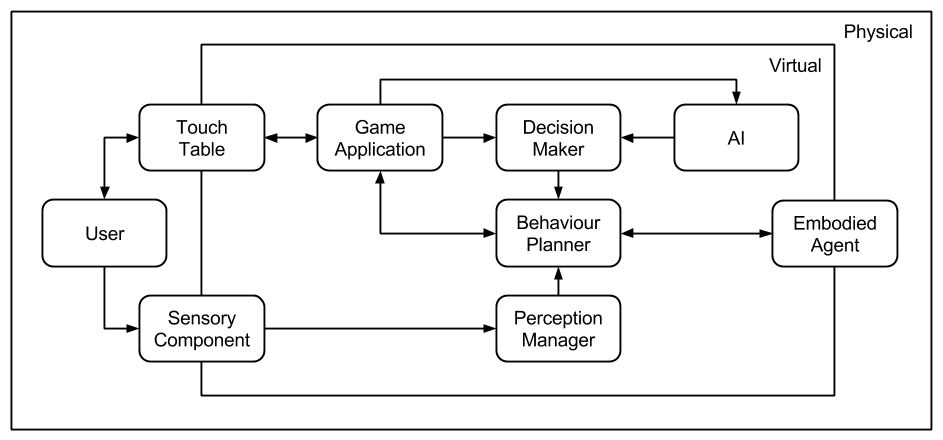
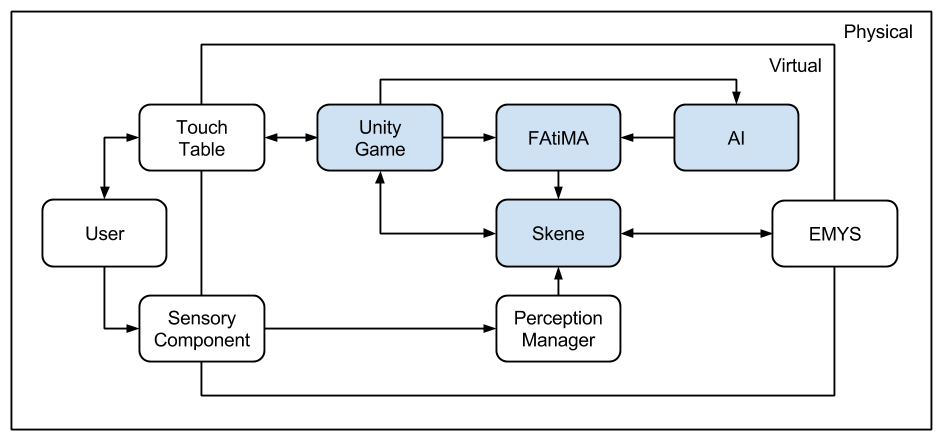
First version of section 4.1.

diff --git a/partials/41_architecture_overview.tex b/partials/41_architecture_overview.tex
@@ -1,29 +1,45 @@
 \section{Architecture Overview}
 \label{section:architecture_overview}
 
-The model presented in Figure~\ref{fig:model} organises all the components involved in this system, considering a scenario where an embodied agent plays a physical card game against human players over a touch table.
+The model presented in Figure~\ref{fig:model} organises all the components involved in this system and their communications.
+It considers a scenario where an embodied agent plays a physical card game against human players over a touch table.
+
+\begin{figure}[ht]
+  \centering
+    \includegraphics[width=1\textwidth]{./img/architecture}
+  \caption{System architecture using components}
+\label{fig:model}
+\end{figure}
+
+First of all, this model distinguishes physical components from virtual ones.
+However, some entities are presented as both physical and virtual components and will not be detailed since their usage in this system did not demand any extensions for the scope of our domain (\emph{Touch Table}, \emph{Sensory Component} and \emph{Embodied Agent}).
+
+The basic workflow that illustrates the main functionalities of each component is as follows.
+The human players, \emph{Users}, play with physical cards on top of a \emph{Touch Table}, and their game actions are managed by the \emph{Game Application} and communicated to both the \emph{\ac{ai}} and the \emph{Decision Maker}.
+%\todo{check the sensory components!}
+Besides their game actions, \emph{Users} also produce another sort of events that are captured by the \emph{Sensory Component} and handled by the \emph{Perception Manager}, for instance, face movements or the source direction of spoken interactions.
+The \emph{\ac{ai}} includes all the reasoning about the game and decides the next move of the artificial player.
+However, the \emph{Embodied Agent} will not only play a certain card, but will also include social behaviours.
+As a result, the \emph{Decision Maker} balances the \emph{\ac{ai}} decisions and game information to produce an appropriate sequence of behaviours and inform them to \emph{Behaviour Planner}.
+Lastly, the \emph{Behaviour Planner}, after receiving high-level intention-directed instructions, builds a suitable plan to execute the chosen instructions, considering the state of the \emph{Embodied Agent}, information from \emph{Perception Manager}, and additional game information from the \emph{Game Application}.
 
 \begin{figure}[ht]
   \centering
     \includegraphics[width=1\textwidth]{./img/model}
-  \caption{Structure of the social robot that plays \emph{Sueca}}
+  \caption{System architecture using modules}
 \label{fig:model}
 \end{figure}
 
-This model distinguishes physical components from virtual ones.
-Some entities are not detailed on the scope of this project and are presented as both physical and virtual components.
-The human players, Users, play with physical cards on top of a Touch Table, and their game actions are managed by Game Application and communicated to both the \ac{ai} module and the Decision Maker.
-The Perception Manager receives information from all the Sensory Components.
-The \ac{ai} module includes all the reasoning about the game and decides the robot's next move.
-However, the embodied agent's actions also involve social behaviours, and Decision Maker is the responsible module for this management.
-The Decision Maker balances the \ac{ai} move and game information, depending on the situation, in order to produce an appropriate sequence of behaviours and inform them to Behaviour Planner.
-For instance, being the last player of a trick and taking the two highest cards of a suit, by playing a trump card, is an exciting move and should produce an equally exciting reaction on the robot.
-Lastly, the Behaviour Planner, after receiving high-level intention-directed instructions, builds a suitable plan to execute the chosen instructions, considering the state of the embodied agent, information from Perception Manager, and additional game information from the Game Application.
+%\todo{confirmar com o Tiago se sai uma seta do skene para o unity!!!}
+The previsously described architecture is instantiated as shown in Figure~\ref{fig:model} and the blue modules are thalamus communicating enteties.
+This concept arises from the Thalamus Framework \cite{Ribeiro}, which enables the usage of enteties that can be registered at runtime in a server in order to send and receive specific messages.
+These enteties are publisheres and subscribers of the channels they want to write on and listen to, respectively.
+The implementation provided by this framework works by simply inherit from the \emph{ThalamusClient} class and implement the interfaces of the messages that the entety wants to exchange.
 
-The architecture that will instantiate the model described above is partially decided.
-The virtual layer will be mainly covered by Thalamus framework, which enables the communication between the mentioned entities \cite{Ribeiro}.
-The chosen Behaviour Planner is Skene \cite{Ribeiroa}.
-The \ac{ai} module will be processed offline with the algorithms described in Section~\ref{sec:sueca_solution}.
-The embodied agent will initially be \ac{emys} due to its expressiveness, although other robots will be considered, depending on the users' preferences.
-Finally, the undecided components are the sensory inputs.
-Since Pereira et al. have shown the importance of collecting data from user studies, these components will be settled further, after some field research with \emph{Sueca} players.
+The \emph{Unity Game} module is reponsible for displaying the interface of the game, reading the physical cards, publishing all the relevant game events and subscribing to the plays of artificial players.
+
+The chosen \emph{Behaviour Planner} is \emph{Skene} \cite{Ribeiroa}, which tightens the communication between the world and an embodied agent with a high-level behaviour description language, also known as utterances.
+These utterances might include instructions for gazing, pointing, animating or sound, among other things.
+Additionaly, considering some instructions require target positions or other game informations, Skene subscribes to \emph{Unity game} messages to keep that information updated.
+
+The \emph{\ac{ai}} and \emph{FAtiMA} modules answer to our primary goals, for that reason, their implementations are carefuly detailed in Section~\ref{sec:artificial_player} and Section~\ref{sec:behaviour_planner}, respectively.

diff --git a/partials/43_behaviour_planner.tex b/partials/43_behaviour_planner.tex
@@ -1,4 +1,4 @@
 \section{A cooperative and non-cooperative player}%Behaviour Planner Component}
-\label{section:behaviour_planner}
+\label{sec:behaviour_planner}
 
 Robot has been implemented...

diff --git a/partials/42_artificial_player.tex b/partials/42_artificial_player.tex
@@ -1,4 +1,4 @@
 \section{An intelligent player}%The artificial player}
-\label{section:artificial_player}
+\label{sec:artificial_player}
 
 AI has been implemented...
